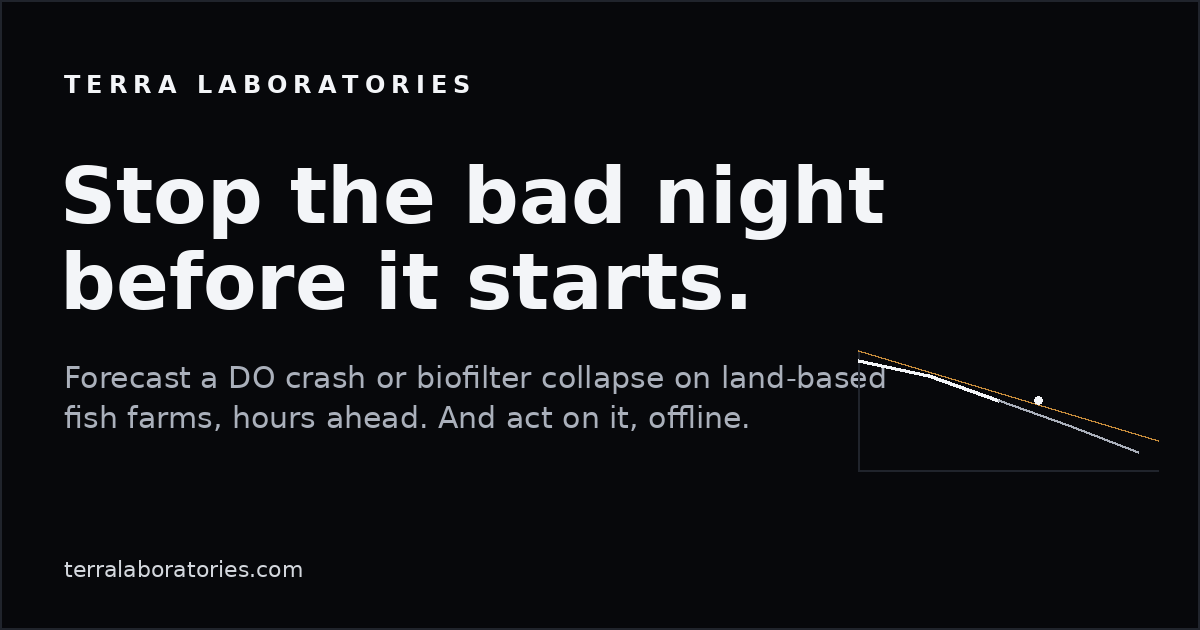
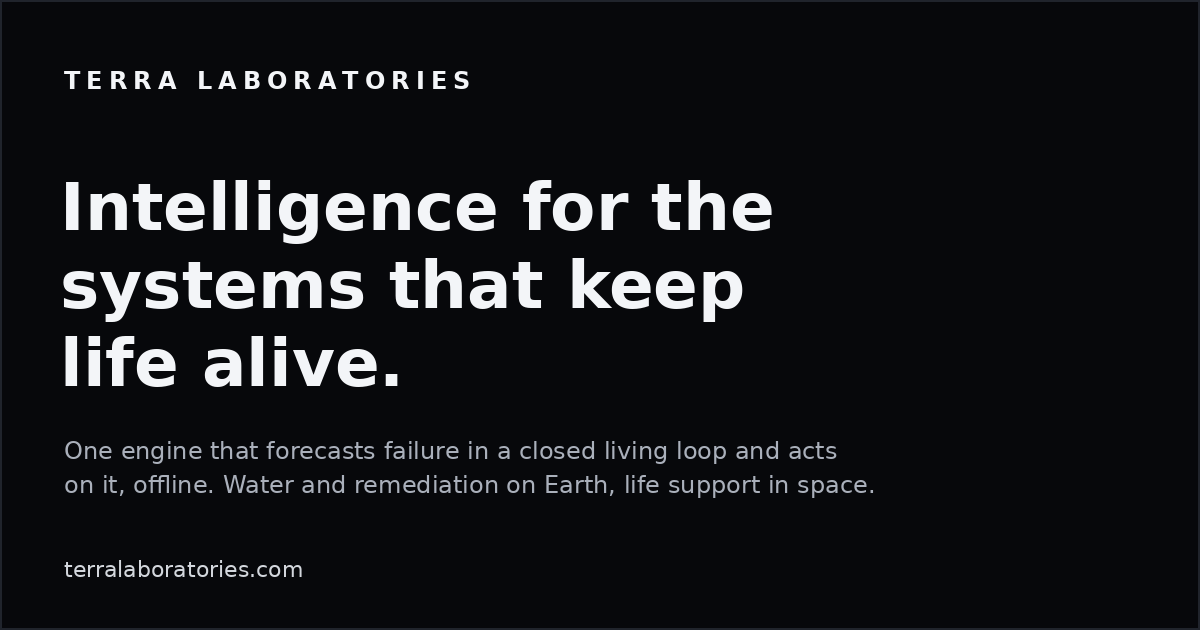
New generic hero + broadened meta/OG; three co-equal domain columns

diff --git a/index.html b/index.html
@@ -3,24 +3,24 @@
 <head>
 <meta charset="UTF-8">
 <meta name="viewport" content="width=device-width, initial-scale=1.0">
-<title>Terra Laboratories / Autonomy for land-based fish farms (RAS)</title>
-<meta name="description" content="Terra forecasts a DO crash or biofilter collapse on land-based fish farms hours ahead, and acts on it offline. The autonomy layer for recirculating aquaculture (RAS).">
+<title>Terra Laboratories / Intelligence for the systems that keep life alive</title>
+<meta name="description" content="Terra reads the true state of a closed living system, forecasts failure hours ahead, and acts on it offline. One engine, from water and remediation on Earth to life support in space.">
 <link rel="canonical" href="https://terralaboratories.com/">
 <meta name="theme-color" content="#07080B">
 <!-- Open Graph -->
 <meta property="og:type" content="website">
 <meta property="og:site_name" content="Terra Laboratories">
 <meta property="og:url" content="https://terralaboratories.com/">
-<meta property="og:title" content="Stop the bad night before it starts.">
-<meta property="og:description" content="Terra forecasts a DO crash or biofilter collapse on land-based fish farms hours ahead, and acts on it offline. The autonomy layer for recirculating aquaculture (RAS).">
+<meta property="og:title" content="Intelligence for the systems that keep life alive.">
+<meta property="og:description" content="Terra reads the true state of a closed living system, forecasts failure hours ahead, and acts on it offline. One engine, from water and remediation on Earth to life support in space.">
 <meta property="og:image" content="https://terralaboratories.com/og-cover.png">
 <meta property="og:image:width" content="1200">
 <meta property="og:image:height" content="630">
-<meta property="og:image:alt" content="Terra Laboratories: forecast a DO crash on land-based fish farms hours ahead.">
+<meta property="og:image:alt" content="Terra Laboratories: intelligence for the systems that keep life alive.">
 <!-- Twitter -->
 <meta name="twitter:card" content="summary_large_image">
-<meta name="twitter:title" content="Stop the bad night before it starts.">
-<meta name="twitter:description" content="Terra forecasts a DO crash or biofilter collapse on land-based fish farms hours ahead, and acts on it offline.">
+<meta name="twitter:title" content="Intelligence for the systems that keep life alive.">
+<meta name="twitter:description" content="Terra reads the true state of a closed living system, forecasts failure hours ahead, and acts on it offline.">
 <meta name="twitter:image" content="https://terralaboratories.com/og-cover.png">
 <link rel="preconnect" href="https://fonts.googleapis.com">
 <link rel="preconnect" href="https://fonts.gstatic.com" crossorigin>
@@ -78,6 +78,19 @@ section{position:relative;padding:clamp(80px,11vh,150px) var(--mx)}
 #hero .wrap>*:nth-child(3){animation-delay:.42s}#hero .wrap>*:nth-child(4){animation-delay:.58s}#hero .wrap>*:nth-child(5){animation-delay:.74s}
 @keyframes up{from{opacity:0;transform:translateY(30px)}to{opacity:1;transform:none}}
 @media(prefers-reduced-motion:reduce){#hero .wrap>*{animation:none;opacity:1}}
+.herogrid{display:grid;grid-template-columns:1.05fr .95fr;gap:44px;align-items:center}
+@media(max-width:960px){.herogrid{grid-template-columns:1fr;gap:28px}}
+.hticker{font-family:var(--mono);font-size:11px;letter-spacing:.12em;color:var(--mut);white-space:nowrap;overflow:hidden;margin-bottom:26px;opacity:0;animation:up 1s .05s forwards}
+.herolive{display:flex;flex-direction:column;gap:10px}
+.livehead{display:flex;justify-content:space-between;align-items:center;font-family:var(--mono);font-size:10px;letter-spacing:.2em;color:var(--mut)}
+.simtag{border:1px solid var(--line);padding:3px 8px;border-radius:3px;font-size:9.5px}
+.tilegrid{display:grid;grid-template-columns:1fr;gap:10px}
+.ltile{border:1px solid var(--line);border-radius:8px;padding:12px 14px;background:rgba(10,12,17,.72);backdrop-filter:blur(4px)}
+.ltile .ll{font-family:var(--mono);font-size:9.5px;letter-spacing:.12em;color:var(--mut)}
+.ltile .lc{font-family:var(--mono);font-size:9px;color:#4a4f57;margin:2px 0 6px}
+.ltile .lv{font-family:var(--mono);font-size:24px;color:var(--ink)}
+.ltile .lu{font-size:10px;color:var(--mut)}
+.ltile .lst{margin-top:6px;font-family:var(--mono);font-size:9.5px;letter-spacing:.06em;color:#7bbf8a}
 /* TRUST BAR */
 .trustbar{display:flex;align-items:center;justify-content:space-between;flex-wrap:wrap;gap:18px 40px;padding:30px var(--mx);border-top:1px solid var(--line);border-bottom:1px solid var(--line);background:var(--bg2)}
 .trustbar .lbl{font-family:var(--mono);font-size:10px;letter-spacing:.24em;color:var(--mut)}
@@ -143,6 +156,26 @@ section{position:relative;padding:clamp(80px,11vh,150px) var(--mx)}
 .solcard .tag{font-family:var(--mono);font-size:10px;letter-spacing:.2em;color:var(--acc)}
 .solcard h3{font-size:19px;margin:12px 0 8px}
 .solcard p{font-size:13.5px;color:var(--mut)}
+/* DOMAIN COLUMNS */
+.dcols{display:grid;grid-template-columns:repeat(3,1fr);gap:14px;align-items:start;margin-top:46px}
+@media(max-width:820px){.dcols{grid-template-columns:1fr}}
+.dcol{position:relative;border:1px solid var(--line);border-radius:10px;overflow:hidden;background-size:cover;background-position:center;background-color:var(--bg2);min-height:430px;display:flex;flex-direction:column;justify-content:flex-end;transition:border-color .3s}
+.dcol.open{border-color:#3a4048}
+.dcol::before{content:"";position:absolute;inset:0;background:linear-gradient(180deg,rgba(7,8,11,.12) 0%,rgba(7,8,11,.58) 46%,rgba(7,8,11,.94) 100%);z-index:1}
+.dtop{position:absolute;top:0;left:0;right:0;display:flex;justify-content:space-between;align-items:center;padding:15px 16px;z-index:3}
+.dtag{font-family:var(--mono);font-size:10px;letter-spacing:.14em;color:#F3F5F8}
+.dpill{font-family:var(--mono);font-size:8.5px;letter-spacing:.1em;padding:4px 9px;border-radius:20px;background:rgba(7,8,11,.5);border:1px solid rgba(255,255,255,.16);color:#EDEFF2}
+.dbody{position:relative;z-index:3;padding:18px 16px}
+.dbody h3{color:#fff;font-size:21px;margin-bottom:8px}
+.dbody .sum{font-size:13px;color:#cfd3da;line-height:1.5}
+.dbody .stat{margin:12px 0;font-family:var(--mono);font-size:10.5px;color:#fff}
+.dbtn{font-family:var(--mono);font-size:10.5px;letter-spacing:.1em;color:#fff;background:rgba(255,255,255,.06);border:1px solid rgba(255,255,255,.2);border-radius:6px;padding:11px 14px;cursor:pointer;width:100%;display:flex;justify-content:space-between;align-items:center}
+.dbtn:hover{background:rgba(255,255,255,.12)}
+.ddet{max-height:0;overflow:hidden;transition:max-height .55s cubic-bezier(.2,.7,.2,1)}
+.ddet .blk{margin-top:14px}
+.ddet .lbl{font-family:var(--mono);font-size:9.5px;letter-spacing:.14em;color:#aab0bb;margin-bottom:5px}
+.ddet p{font-size:12px;color:#e2e6ec;line-height:1.6;margin:0}
+.dlink{display:inline-block;margin-top:14px;font-family:var(--mono);font-size:10.5px;letter-spacing:.1em;color:#fff;border-bottom:1px solid rgba(255,255,255,.35)}
 /* METRICS BAND (image) */
 .band{position:relative;padding:clamp(70px,10vh,130px) var(--mx);background-color:var(--bg);
   background-image:linear-gradient(rgba(7,8,11,.82),rgba(7,8,11,.9)),url('https://commons.wikimedia.org/wiki/Special:FilePath/The_Blue_Marble.jpg');
@@ -224,8 +257,8 @@ footer .big{font-size:clamp(22px,3vw,34px);color:var(--ink);max-width:18ch}
 <header id="hero">
   <div class="wrap">
     <div class="eyebrow">AUTONOMY FOR CLOSED LIVING SYSTEMS</div>
-    <h1 class="h1" style="max-width:20ch;font-size:clamp(36px,6.4vw,84px)">The estimation that guides spacecraft, now guarding your tank.</h1>
-    <p class="hero-sub">Terra reads the true state of a living loop and forecasts failure hours before it happens, then acts on it offline. We start on land-based fish farms and carry the same engine to life support in space.</p>
+    <h1 class="h1" style="max-width:16ch;font-size:clamp(40px,7vw,92px)">Intelligence for the systems that keep life alive.</h1>
+    <p class="hero-sub">Terra reads the true state of a living loop and forecasts failure hours before it happens, then acts on it offline. One engine, from water and remediation on Earth to life support in space.</p>
     <div class="cta-row">
       <a href="#pilot" class="btn solid">REQUEST A PILOT</a>
       <a href="#deck" class="btn">SEE THE PITCH DECK</a>
@@ -247,10 +280,10 @@ footer .big{font-size:clamp(22px,3vw,34px);color:var(--ink);max-width:18ch}
 <!-- VALUE PROPS -->
 <section id="platform">
   <div class="kick reveal">THE PLATFORM</div>
-  <h2 class="h2 reveal d1">Autonomy for the systems that keep fish alive.</h2>
-  <p class="lead reveal d2">Conventional monitoring alarms on one probe at a time, after the DO has already crashed. Terra models the whole RAS loop, sees the crash coming hours out, and acts before you lose the tank.</p>
+  <h2 class="h2 reveal d1">Autonomy for the systems that keep life alive.</h2>
+  <p class="lead reveal d2">Conventional monitoring alarms one sensor at a time, after something has already broken. Terra models the whole loop, sees the failure coming hours out, and acts before you lose it.</p>
   <div class="grid g3">
-    <div class="card reveal d1"><div class="n">01</div><h3>See the DO crash before it happens</h3><p>Forecast a DO crash, ammonia spike, or biofilter collapse hours ahead from the true whole-system state, not from a single gauge crossing a line.</p></div>
+    <div class="card reveal d1"><div class="n">01</div><h3>See failure before it happens</h3><p>Forecast a breach hours ahead, whether it is a dissolved-oxygen crash in a tank or an oxygen drop in a habitat, from the true whole-system state, not a single gauge crossing a line.</p></div>
     <div class="card reveal d2"><div class="n">02</div><h3>Act autonomously, offline</h3><p>Aerate, dose, or alert on-site with no cloud and no operator, even on a bad VSAT link, every decision behind a full audit log.</p></div>
     <div class="card reveal d3"><div class="n">03</div><h3>One engine, every environment</h3><p>A new domain is a specification, not a rebuild. The same core runs from a land-based fish farm to a lunar habitat.</p></div>
   </div>
@@ -262,12 +295,12 @@ footer .big{font-size:clamp(22px,3vw,34px);color:var(--ink);max-width:18ch}
   <div class="split reveal">
     <div class="txt">
       <div class="kick">THE PROBLEM</div>
-      <h2 class="h2">The tank crashes as a whole, quietly.</h2>
-      <p class="lead">In a recirculating system (RAS), a DO crash, an ammonia spike, or a slow biofilter collapse builds for hours before any single probe trips an alarm. Probes foul and drift, so the dashboard reads calm while the fish are already dying.</p>
+      <h2 class="h2">A closed system crashes as a whole, quietly.</h2>
+      <p class="lead">In a closed living loop, failure builds for hours before any single probe trips an alarm. Take a land-based fish farm: a DO crash, an ammonia spike, or a biofilter collapse is underway while the dashboard still reads calm. Probes foul and drift, so the numbers look fine while the system dies.</p>
       <ul class="ul">
-        <li>A single bad night can wipe a cohort and cost a land-based farm millions</li>
-        <li>Hours pass between the first hidden drift and mass mortality</li>
-        <li>Threshold alarms fire after the DO has already crossed the line</li>
+        <li>A single bad night can wipe a cohort, or a crew can lose its air</li>
+        <li>Hours pass between the first hidden drift and catastrophic loss</li>
+        <li>Threshold alarms fire only after the line has already been crossed</li>
       </ul>
     </div>
     <div class="img" style="padding:22px;display:flex;flex-direction:column;justify-content:center;gap:14px">
@@ -366,40 +399,8 @@ footer .big{font-size:clamp(22px,3vw,34px);color:var(--ink);max-width:18ch}
 <section id="solutions">
   <div class="kick reveal">WHERE THE ENGINE WORKS</div>
   <h2 class="h2 reveal d1">One engine. Three closed worlds.</h2>
-  <p class="lead reveal d2">The same core runs anywhere a living loop can fail. We are commercial-first in aquaculture, with the next domains staged behind it. Each has its own page.</p>
-
-  <div class="reveal d2" style="margin-top:40px;border:1px solid var(--line);border-radius:8px;background:linear-gradient(180deg,var(--panel),var(--bg2));padding:clamp(26px,4vw,44px)">
-    <div class="tag" style="font-family:var(--mono);font-size:10px;letter-spacing:.2em;color:var(--acc)">AQUACULTURE / NOW / FIRST REVENUE</div>
-    <div class="aquagrid">
-      <div>
-        <h3 style="font-size:clamp(24px,3vw,34px);margin:12px 0 12px">Land-based fish farms (RAS)</h3>
-        <p style="color:var(--body);font-size:15.5px;max-width:52ch">One bad night can wipe an entire cohort. Terra watches the whole loop, forecasts a DO crash or biofilter collapse hours ahead, and can act before the tank goes. Start with one system on a value-share pilot: you only pay when we prevent a loss.</p>
-        <div class="cta-row" style="margin-top:24px">
-          <a href="#pilot" class="btn solid">REQUEST A PILOT</a>
-          <a href="/aquaculture/" class="btn">AQUACULTURE PAGE</a>
-        </div>
-      </div>
-      <div style="display:grid;gap:12px">
-        <div style="border:1px solid var(--line);border-radius:6px;padding:16px"><div style="font-size:26px;color:var(--ink);font-weight:600">~6.5 h</div><div style="font-size:12.5px;color:var(--mut)">early warning ahead of a DO crash (simulation)</div></div>
-        <div style="border:1px solid var(--line);border-radius:6px;padding:16px"><div style="font-size:26px;color:var(--ink);font-weight:600">Value-share</div><div style="font-size:12.5px;color:var(--mut)">you pay when we prevent a loss</div></div>
-        <div style="border:1px solid var(--line);border-radius:6px;padding:16px"><div style="font-size:26px;color:var(--ink);font-weight:600">Offline</div><div style="font-size:12.5px;color:var(--mut)">runs on-site, no cloud required</div></div>
-      </div>
-    </div>
-    <p class="notfor">Terra is built for land-based, recirculating systems. If you run net pens or open ponds, we are not the right fit yet.</p>
-  </div>
-
-  <div class="grid g2" style="margin-top:18px">
-    <a href="/bioremediation/" class="card reveal d1" style="display:block">
-      <div class="n" style="color:var(--mut)">BIOREMEDIATION &amp; WATER / NEXT</div>
-      <h3 style="margin:14px 0 8px">Cleaning water, watched in real time</h3>
-      <p>Wastewater and environmental remediation are closed biological loops with the same failure mode Terra was built for. On the roadmap, same engine. <span style="color:var(--acc)">Read the plan &rarr;</span></p>
-    </a>
-    <a href="/space/" class="card reveal d2" style="display:block">
-      <div class="n" style="color:var(--mut)">SPACE LIFE SUPPORT / VALIDATED IN SIMULATION</div>
-      <h3 style="margin:14px 0 8px">Keeping a crew alive, off Earth</h3>
-      <p>Bioregenerative life support is the north star. Terra is validated on SIMOC, the Biosphere-2 closed-habitat model, across 60 fault runs. <span style="color:var(--acc)">See the results &rarr;</span></p>
-    </a>
-  </div>
+  <p class="lead reveal d2">The same core runs anywhere a living loop can fail. Water on Earth, bioengineering and remediation, and life support in space. Expand any column for the full picture.</p>
+  <div class="dcols reveal d2" id="dcols"></div>
 </section>
 
 <!-- METRICS BAND -->
@@ -421,7 +422,7 @@ footer .big{font-size:clamp(22px,3vw,34px);color:var(--ink);max-width:18ch}
     <details><summary>Does it work offline, on a bad VSAT link?</summary><p>Yes. The whole engine runs on a small edge node on-site. It needs no cloud and no network to forecast or act, so a dropped or slow VSAT link does not stop it. Connectivity is for reporting, not for the decision.</p></details>
     <details><summary>Is this proven yet?</summary><p>We are candid about our stage. Terra is validated in simulation today on a real-data foundation, and the company is pre-revenue. Bench validation is planned for Q4 2026 and the first paid pilots for H1 2027. If you want to be one of those first pilots, that is exactly what the pilot request is for.</p></details>
     <details><summary>Do I need a data scientist to run it?</summary><p>No. Terra uses commodity probes plus a small edge node, and we handle calibration and the model. Your team sees forecasts, alerts, and an audit log, not math.</p></details>
-    <details><summary>What does a pilot cost?</summary><p>We price on value share: you pay when we prevent a loss. A pilot starts on a single system so the risk to you is small and the result is measurable on your own farm.</p></details>
+    <details><summary>What does a pilot cost?</summary><p>We price on value share: you pay when we prevent a loss. A pilot starts on a single system so the risk to you is small and the result is measurable on your own site.</p></details>
   </div>
 </section>
 <div class="rule"></div>
@@ -485,15 +486,15 @@ footer .big{font-size:clamp(22px,3vw,34px);color:var(--ink);max-width:18ch}
     <div class="side">
       <div class="kick">REQUEST A PILOT</div>
       <h2 class="h2" style="font-size:clamp(24px,3vw,38px)">Put Terra on one system.</h2>
-      <p class="lead" style="font-size:16px">Tell us about your farm and we will scope a single-system, value-share pilot. You only pay when we prevent a loss. No cloud to install, no data scientist to hire.</p>
+      <p class="lead" style="font-size:16px">Tell us about your operation and we will scope a single-system, value-share pilot. You only pay when we prevent a loss. No cloud to install, no data scientist to hire.</p>
     </div>
     <!-- FLAG: this form needs a backend to capture leads. Create a free Formspree form and paste its ID over FORM_ID
          (or point action= at your own handler). Until then, submissions are not captured and the mailto fallback carries it. -->
     <form action="https://formspree.io/f/FORM_ID" method="POST">
       <div><label for="f_name">NAME</label><input id="f_name" name="name" required></div>
-      <div><label for="f_org">FARM / ORGANIZATION</label><input id="f_org" name="organization" required></div>
+      <div><label for="f_org">ORGANIZATION</label><input id="f_org" name="organization" required></div>
       <div><label for="f_email">EMAIL</label><input id="f_email" type="email" name="email" required></div>
-      <div><label for="f_about">WHAT DO YOU RUN? (species, system size)</label><textarea id="f_about" name="about" rows="3"></textarea></div>
+      <div><label for="f_about">WHAT DO YOU RUN? (system type and size)</label><textarea id="f_about" name="about" rows="3"></textarea></div>
       <button type="submit" class="btn solid" style="justify-self:start">REQUEST A PILOT</button>
       <p style="font-size:11px;color:var(--mut);font-family:var(--mono)">Prefer email? <a href="mailto:cameron@terralaboratories.com" style="color:var(--acc)">cameron@terralaboratories.com</a></p>
     </form>
@@ -599,9 +600,34 @@ function count(el){const to=parseFloat(el.dataset.to),dec=parseInt(el.dataset.de
     {"@type":"Question","name":"Does it work offline, on a bad VSAT link?","acceptedAnswer":{"@type":"Answer","text":"Yes. The whole engine runs on a small edge node on-site. It needs no cloud and no network to forecast or act, so a dropped or slow VSAT link does not stop it."}},
     {"@type":"Question","name":"Is this proven yet?","acceptedAnswer":{"@type":"Answer","text":"Terra is validated in simulation today on a real-data foundation, and the company is pre-revenue. Bench validation is planned for Q4 2026 and the first paid pilots for H1 2027."}},
     {"@type":"Question","name":"Do I need a data scientist to run it?","acceptedAnswer":{"@type":"Answer","text":"No. Terra uses commodity probes plus a small edge node, and we handle calibration and the model. Your team sees forecasts, alerts, and an audit log, not math."}},
-    {"@type":"Question","name":"What does a pilot cost?","acceptedAnswer":{"@type":"Answer","text":"We price on value share: you pay when we prevent a loss. A pilot starts on a single system so the risk to you is small and the result is measurable on your own farm."}}
+    {"@type":"Question","name":"What does a pilot cost?","acceptedAnswer":{"@type":"Answer","text":"We price on value share: you pay when we prevent a loss. A pilot starts on a single system so the risk to you is small and the result is measurable on your own site."}}
   ]
 }
+</script>
+<script>
+(function(){
+ var d=[
+  {img:'/domain-water.jpg',tag:'WATER',stage:'NOW / FIRST REVENUE',h:'Water',sum:'Land-based aquaculture (RAS) and water quality. Forecast a DO crash, ammonia spike, or biofilter collapse hours ahead and act before the tank goes.',stat:'~6.5 h early warning (simulation)',det:[['What fails','A DO crash, an ammonia or nitrite spike, or a slow biofilter collapse builds for hours before any single probe trips. Probes foul and drift, so the dashboard reads calm while the fish are already dying.'],['What Terra does','Reconstructs the whole-system state, forecasts the breach hours ahead, and acts on-site within limits you set, offline, behind a full audit log.'],['Stage','Validated in simulation; measurement-validation collaboration with the Freshwater Institute; first paid pilots H1 2027.']],link:'/aquaculture/'},
+  {img:'/domain-bio.jpg',tag:'BIOENGINEERING & REMEDIATION',stage:'NEXT / ROADMAP',h:'Bioengineering & Remediation',sum:'Wastewater, environmental remediation, and bioprocess. Closed biological loops with the same failure mode. Same engine, next on the roadmap.',stat:'On the roadmap after aquaculture',det:[['What fails','Microbial and process communities drift before effluent or a batch goes out of spec. Upsets are costly and usually caught late.'],['What Terra does','Forecast the upset ahead of time, separate true drift from fouling, and keep an audit log for every automated action, which matters where discharge is regulated.'],['Stage','On the roadmap, not deployed yet. We are looking for design partners in municipal or industrial process water.']],link:'/bioremediation/'},
+  {img:'/domain-space.jpg',tag:'BLSS',stage:'VALIDATED IN SIMULATION',h:'Bioregenerative life support',sum:'Closed-loop life support for the Moon and Mars. The hardest closed living system there is, and Terra\'s north star.',stat:'98% of breaches forecast (SIMOC, 60 runs)',det:[['The validation','A 60-run ensemble on SIMOC, the Biosphere-2 closed-habitat model, across seven habitats: 98% of safety breaches forecast before they occurred, median 18 h lead (up to 168 h), 11% false-alarm rate, self-calibrated per habitat (R2 median 0.87).'],['Honest scope','Simulation-to-simulation validation against an independent, peer-built model. Not flight data; no flight heritage.'],['Stage','Seeking research partners and non-dilutive support (USDA, NOAA, NASA SBIR) to move toward bench validation.']],link:'/space/'}
+ ];
+ var box=document.getElementById('dcols'); if(!box) return;
+ d.forEach(function(c,i){
+   var col=document.createElement('div'); col.className='dcol'; col.style.backgroundImage="url('"+c.img+"')";
+   var det=c.det.map(function(b){return '<div class="blk"><div class="lbl">'+b[0]+'</div><p>'+b[1]+'</p></div>';}).join('');
+   col.innerHTML='<div class="dtop"><span class="dtag">'+c.tag+'</span><span class="dpill">'+c.stage+'</span></div>'+
+     '<div class="dbody"><h3>'+c.h+'</h3><div class="sum">'+c.sum+'</div><div class="stat">'+c.stat+'</div>'+
+     '<button class="dbtn" data-i="'+i+'"><span>EXPAND</span><span class="chev">+</span></button>'+
+     '<div class="ddet" id="ddet'+i+'">'+det+'<a class="dlink" href="'+c.link+'">Full page &rarr;</a></div></div>';
+   box.appendChild(col);
+ });
+ box.addEventListener('click',function(e){
+   var b=e.target.closest('.dbtn'); if(!b) return;
+   var i=b.getAttribute('data-i'), det=document.getElementById('ddet'+i), col=b.closest('.dcol'), chev=b.querySelector('.chev'), lab=b.querySelector('span');
+   if(det.style.maxHeight && det.style.maxHeight!=='0px'){ det.style.maxHeight='0px'; col.classList.remove('open'); chev.textContent='+'; lab.textContent='EXPAND'; }
+   else { det.style.maxHeight=det.scrollHeight+30+'px'; col.classList.add('open'); chev.textContent='–'; lab.textContent='COLLAPSE'; }
+ });
+})();
 </script>
 </body>
 </html>
